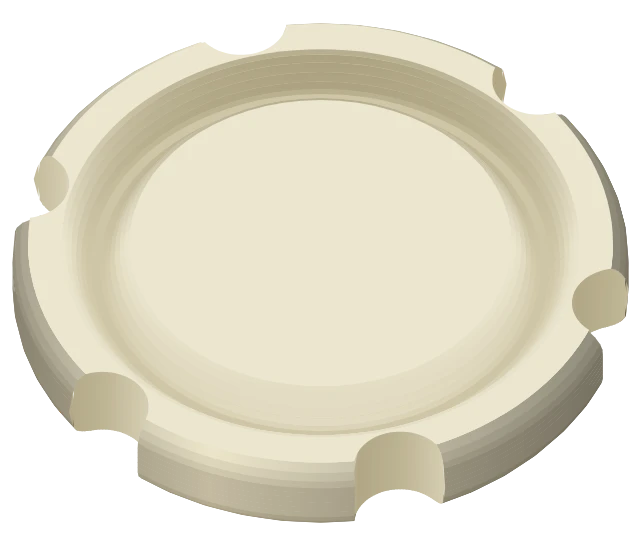
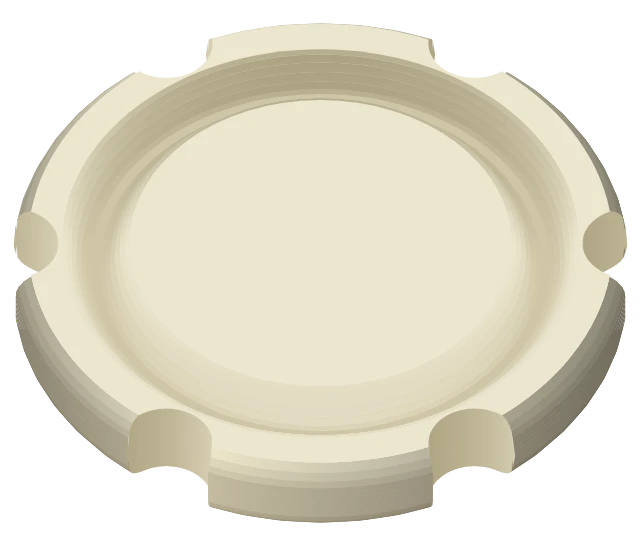
Drop the flying YINSH piece's spin in MATRX GIPF
The spin read as choppy in 15° steps, so a sliding YINSH piece no longer turns, and the
looks are drawn every 30° again (42 files, not 78) with nothing preloaded. Discs lie on the
board exactly as before.

Claude-Session: https://claude.ai/code/session_01T2Axx5HCwVKnkzeRZ5ZsuR

diff --git a/games/matrx-ui/src/lib/animators/boardAnimator.svelte.ts b/games/matrx-ui/src/lib/animators/boardAnimator.svelte.ts
@@ -1,7 +1,7 @@
 import { tick } from 'svelte'
 import type { Attachment } from 'svelte/attachments'
 import { gsap } from 'gsap'
-import { Color, sameCoordinates, type AxialCoordinates } from '@tabletop/common'
+import { sameCoordinates, type AxialCoordinates } from '@tabletop/common'
 import type {
     AnimationContext,
     TransitionKind,
@@ -24,8 +24,6 @@ import {
     type PushChange
 } from '$lib/board/boardChange.js'
 import { coordsKey, SPACING } from '$lib/board/geometry.js'
-import { lookUrl, preloadLooks } from '$lib/board/looks.js'
-import { turnOf, turnsOf } from '$lib/board/pieceShape.js'
 import { FALL_EASE, GROUND_EASE, hopPlan, RISE_EASE, skidAt, skidDuration } from '$lib/board/hop.js'
 import { dropCrease, dropDisc, dropShadow, landing, LIFT_OFF, type PieceParts } from './drop.js'
 
@@ -70,8 +68,6 @@ const BOUNCES = {
         { height: 1.2, duration: 0.08, reach: 1 }
     ]
 }
-// How many times round a sliding YINSH piece spins, in 15° steps of 24 to the turn.
-const SPIN = { turns: 1 }
 
 export type DrawnStack = { key: string; coords: AxialCoordinates; discs: BoardDisc[] }
 
@@ -128,7 +124,6 @@ export class BoardAnimator {
     constructor(private readonly session: MatrxGameSession) {}
 
     readonly attach: Attachment = () => {
-        preloadLooks([PieceKind.Yinsh])
         this.session.addGameStateChangeListener(this.listener)
         return () => this.session.removeGameStateChangeListener(this.listener)
     }
@@ -541,30 +536,13 @@ export class BoardAnimator {
 
     // A YINSH piece slides as YINSH's rings do: off its stack, over, touching down short of its
     // place, a skip and a slide in. Its shadow shows once it is off the stack it left, paler the
-    // higher it is. It spins as it goes, slowing to a stop the way round it lies; its look is
-    // swapped on the image itself, each step round, rather than redrawn.
+    // higher it is.
     private skid(move: MoveChange, spaces: number, startLift: number, timeline: Timeline) {
         const { whole: node, body, shadow } = this.flierNodes
         if (node === undefined || body === undefined || shadow === undefined) return
         const offset = this.offset(move.from, move.to)
         const start = this.session.view.center(move.from)
-        const { kind, playerId, id } = move.disc
-        const tone =
-            this.session.gameState.getPlayerState(playerId).color === Color.White ? 'light' : 'dark'
-        const steps = turnsOf(kind)
-        const rest = turnOf(kind, id)
-        const image = body.querySelector('image')
-        let shown = rest
-        const spin = (u: number) => {
-            // Clockwise, seen from above: counting down to the way round it lies.
-            const left = Math.round(SPIN.turns * 24 * (1 - (1 - (1 - u) ** 2)))
-            const turn = (((rest + left) % steps) + steps) % steps
-            if (turn === shown || image === null) return
-            shown = turn
-            image.setAttribute('href', lookUrl({ tone, kind, turn }))
-        }
         const pose = (u: number) => {
-            spin(u)
             const { along, lift } = skidAt(u, spaces, startLift)
             const y = offset.y * along
             gsap.set(node, { x: offset.x * along, y })

diff --git a/games/matrx-ui/src/lib/board/pieceShape.ts b/games/matrx-ui/src/lib/board/pieceShape.ts
@@ -25,24 +25,17 @@ export type Disc = { tone: Tone; kind: PieceKind; turn?: number }
 
 export const TONES: readonly Tone[] = ['light', 'dark']
 
-// Looks are drawn every 15°, so a disc can spin as it flies; on the board discs lie turned
-// every which way in steps of two of them, twelfths of a turn.
-const TURN_STEP = 15
-const BOARD_STEP = 2
-// The different ways round each kind's mark can be drawn: ZÈRTZ's three notches look the same
-// again after a third of a turn, PÜNCT's six after a sixth; plain and round marks after none.
+// Discs lie on the board turned every which way, in twelfths of a turn.
+const TURN_STEP = 30
+// The different ways round each kind's mark can lie: ZÈRTZ's three notches look the same again
+// after a third of a turn, PÜNCT's six after a sixth; plain and round marks after none.
 const TURNS: Record<PieceKind, number> = {
     [PieceKind.Gipf]: 1,
     [PieceKind.Tamsk]: 1,
-    [PieceKind.Zertz]: 8,
+    [PieceKind.Zertz]: 4,
     [PieceKind.Dvonn]: 1,
-    [PieceKind.Yinsh]: 24,
-    [PieceKind.Punct]: 4
-}
-
-// How many steps round a kind's look takes before it looks the same again.
-export function turnsOf(kind: PieceKind): number {
-    return TURNS[kind]
+    [PieceKind.Yinsh]: 12,
+    [PieceKind.Punct]: 2
 }
 
 // Which way round a disc lies, from its id, so it lies the same way wherever it goes and whoever
@@ -53,8 +46,7 @@ export function turnOf(kind: PieceKind, id: number | undefined): number {
     let hash = Math.imul(id ^ (id >>> 16), 0x85ebca6b)
     hash = Math.imul(hash ^ (hash >>> 13), 0xc2b2ae35)
     hash ^= hash >>> 16
-    const steps = Math.max(1, TURNS[kind] / BOARD_STEP)
-    return ((hash >>> 0) % steps) * BOARD_STEP
+    return (hash >>> 0) % TURNS[kind]
 }
 
 // Every disc there is: each kind in each tone, each way round its mark can lie.

diff --git a/games/matrx-ui/src/lib/board/looks.ts b/games/matrx-ui/src/lib/board/looks.ts
@@ -1,5 +1,4 @@
-import type { PieceKind } from '@tabletop/matrx'
-import { DISC_LOOKS, lookName, type Disc } from './pieceShape.js'
+import { lookName, type Disc } from './pieceShape.js'
 
 // Every disc's look, pre-rendered to a file by scripts/render-looks.mjs.
 const LOOK_URLS: Record<string, string> = Object.fromEntries(
@@ -14,15 +13,4 @@ const LOOK_URLS: Record<string, string> = Object.fromEntries(
 
 export function lookUrl(disc: Disc): string {
     return LOOK_URLS[lookName(disc)]
-}
-
-// Fetches and decodes every look of the kinds given, so a disc can spin through them in flight
-// without a frame drawn before its next look has loaded.
-export function preloadLooks(kinds: readonly PieceKind[]) {
-    if (typeof Image === 'undefined') return
-    for (const disc of DISC_LOOKS.filter((look) => kinds.includes(look.kind))) {
-        const image = new Image()
-        image.src = lookUrl(disc)
-        image.decode().catch(() => {})
-    }
 }
